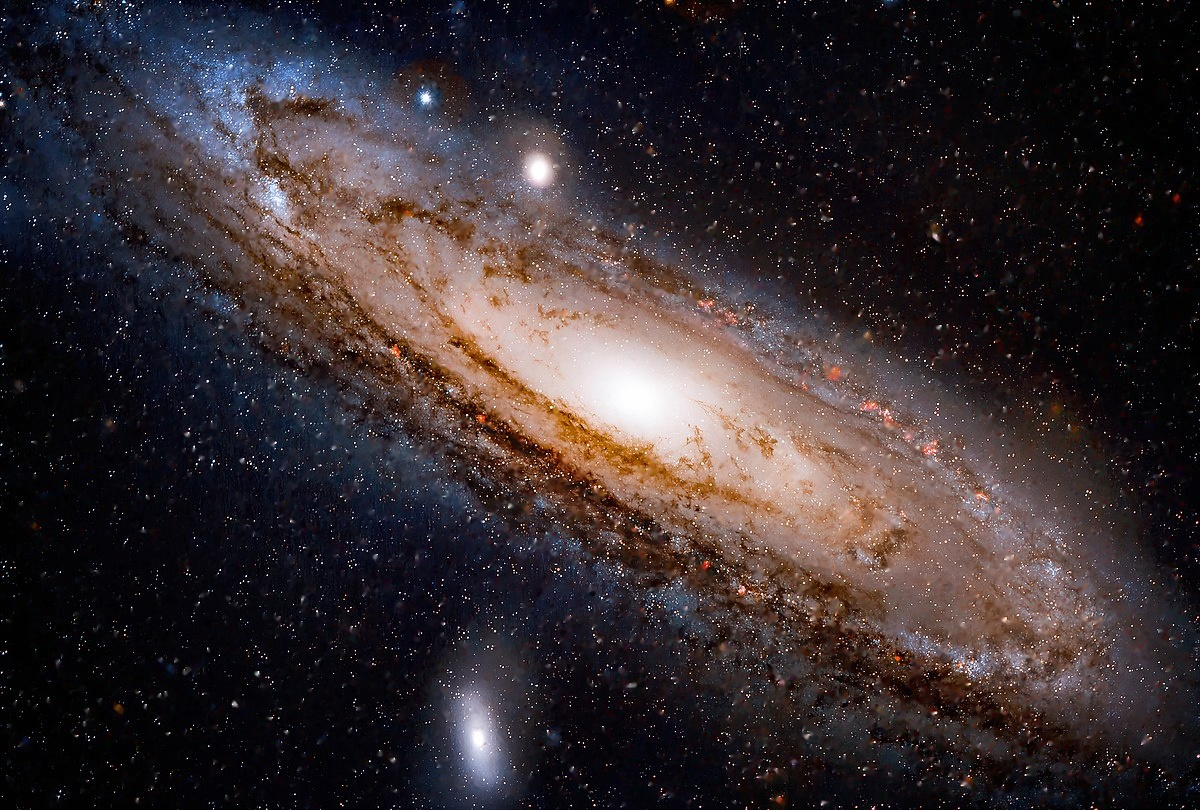
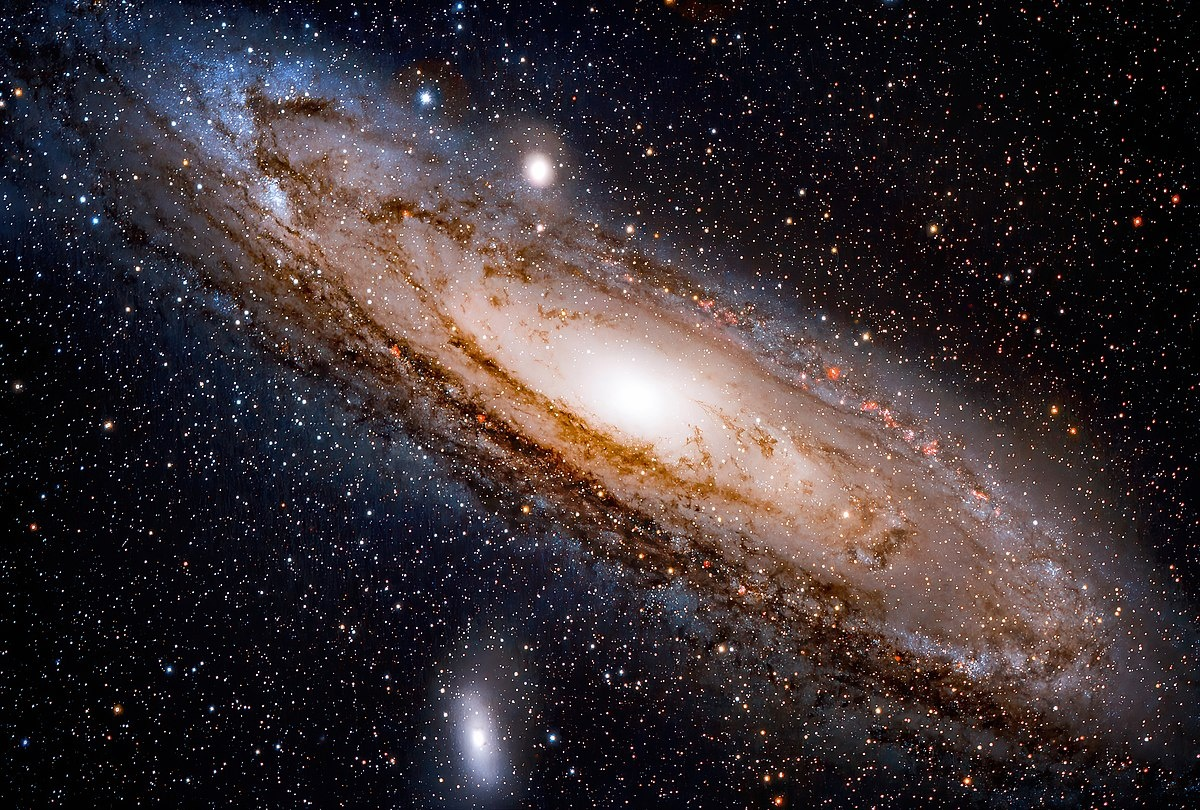
telling what it does and logging

diff --git a/ImageStar.py b/ImageStar.py
@@ -2,10 +2,14 @@ import cv2
 import numpy as np
 import time
 import psutil
+from kivy import Logger
 from kivy.clock import Clock
 
 
-def RemoveStars(dio, jotaro, on_finish):
+def RemoveStars(dio, jotaro, on_finish, _set_processing_text):
+    set_processing_text = lambda text: Clock.schedule_once(lambda _elapsed_time: _set_processing_text(text), 0)
+
+
     i = 0
 
     start = time.time()
@@ -17,13 +21,22 @@ def RemoveStars(dio, jotaro, on_finish):
     # cv2.imshow('original', image)
     # cv2.imshow('greyscale', imageG)
 
+    Logger.info("Processor: Loaded image and converted to grey")
+    set_processing_text("Loaded image and converted to grey")
+
     template = cv2.imread('template2.png', 0)
     w, h = template.shape[::-1]
+    Logger.info("Processor: Loaded template")
+    set_processing_text("Loaded template")
+
     res = cv2.matchTemplate(imageG, template, cv2.TM_CCOEFF_NORMED)
+    Logger.info("Processor: Matched template")
+    set_processing_text("Matched template")
+
     loc = np.where(res >= threshold)
     # masking by rotem on stackoverflow
-    global mask
     mask = np.zeros_like(imageG)
+
     for pt in zip(*loc[::-1]):
         # a = cv2.rectangle(image, pt, (pt[0] + w, pt[1] + h), (0,0,255), 1)
         cv2.rectangle(mask, (pt[0] + 4, pt[1] + 4), (pt[0] + w - 3, pt[1] + h - 3), 255, -1)
@@ -32,22 +45,26 @@ def RemoveStars(dio, jotaro, on_finish):
         # use both methods and it stil workss/might be better idk its late ok
         i = i + 1
 
+    Logger.info("Processor: Generated mask")
+    set_processing_text("Generated mask")
+
+    set_processing_text("Using Mask...")
     image = cv2.inpaint(image, mask, 2, cv2.INPAINT_NS)
+    Logger.info("Processor: Used mask ")
+    set_processing_text("Used Mask")
+
     cv2.imwrite("finished.jpg", image)
+    Logger.info("Processor: Wrote image to file")
+    set_processing_text("Saved to file")
+
+    Logger.info(f"Processor: Finished in {time.time() - start}")
+    set_processing_text("Done")
 
     Clock.schedule_once(on_finish, 0)
 
-
-# use this to resize image if its too large image = cv2.resize(image, (800,800))
-
-
-    # end = time.time()
-    # final = end - start
     cpu = psutil.cpu_percent()
+    Logger.info(f"Processor: CPU Usage: {cpu}")
     memory = psutil.virtual_memory()
-    # print("Generated in: ", final)
-    # print(i, "Stars Detected and masked.")
-    print("CPU Usage:", cpu)
-    print("Memory used: ", memory[2])
-    print("Cpu and Memory values may not be accurate, measures full pc usage.")
-    cv2.destroyAllWindows()
+    Logger.info(f"Processor: Memory used: {memory[2]}")
+    Logger.info(f"Processor: Cpu and Memory values may not be accurate, measures full pc usage.")
+

diff --git a/MainAppGui.py b/MainAppGui.py
@@ -45,15 +45,23 @@ class StarRemoval(App):
         thresh = float(thresh)
 
 
-        thread = Thread(target=ImageStar.RemoveStars, args=(path, thresh, self.process_finished))
+        thread = Thread(target=ImageStar.RemoveStars, args=(path, thresh, self.process_finished,
+                        self.set_processing_text))
         thread.start()
+        self.root.get_screen("MainScreen").ids["process_button"].disabled = True
+        self.root.get_screen("MainScreen").ids["after_image"].source = ""
 
 
 
     def process_finished(self, _elapsed_time):
         Logger.info("Finished processing image")
-        self.root.get_screen("MainScreen").ids["after_image"].source = 'finished.jpg'
+        self.root.get_screen("MainScreen").ids["after_image"].source = "finished.jpg"
+        self.root.get_screen("MainScreen").ids["process_button"].disabled = False
+        self.root.get_screen("MainScreen").ids["process_label"].text = ""
 
+
+    def set_processing_text(self, new_text):
+        self.root.get_screen("MainScreen").ids["process_label"].text = new_text
 
 
 class sl(ScreenManager):
